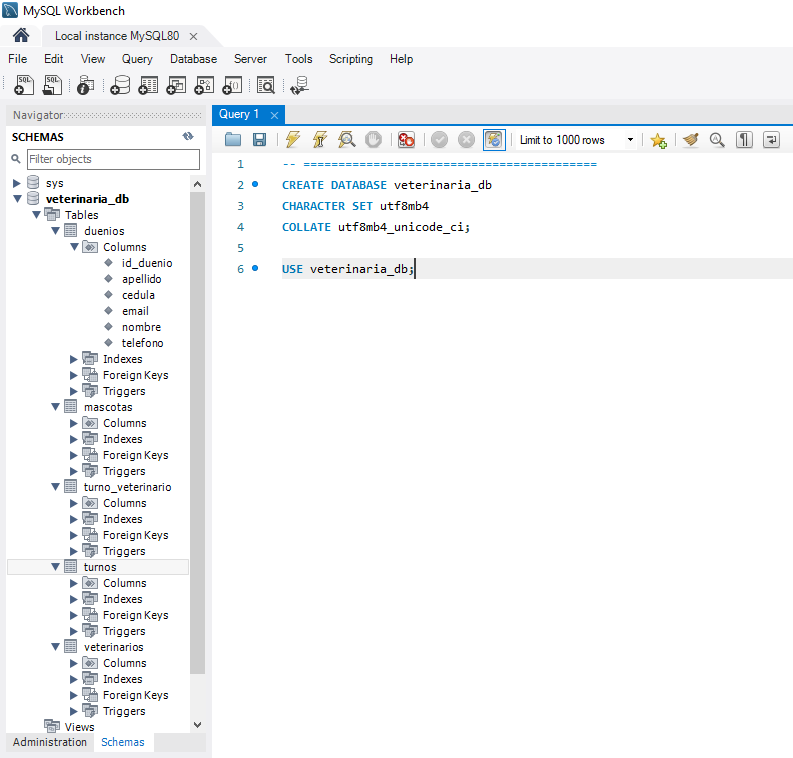
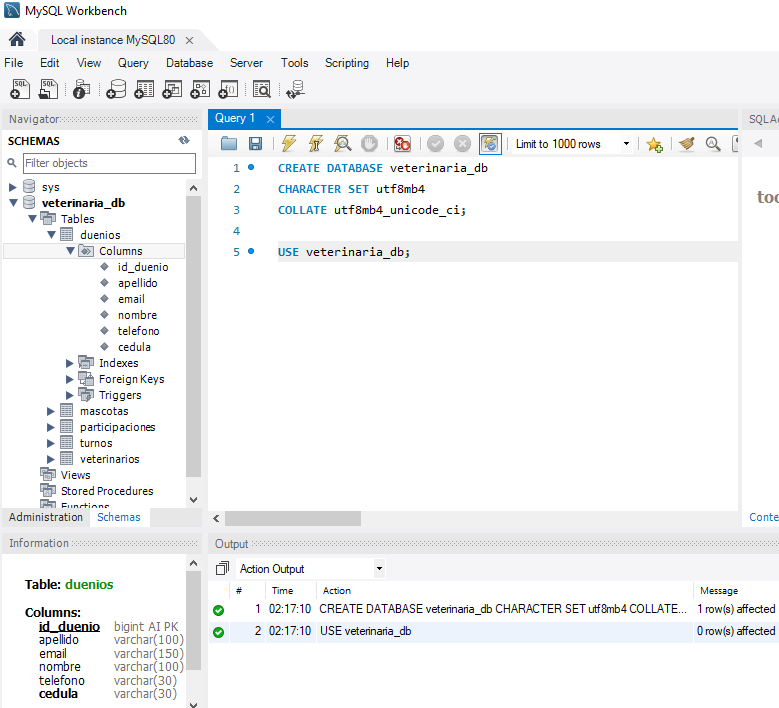
add entity participacion and enum rolVeterinario

diff --git a/src/main/java/com/veterinaria/entity/Turno.java b/src/main/java/com/veterinaria/entity/Turno.java
@@ -2,6 +2,7 @@ package com.veterinaria.entity;
 
 import com.fasterxml.jackson.annotation.JsonBackReference;
 import com.fasterxml.jackson.annotation.JsonManagedReference;
+import com.veterinaria.entity.enums.EstadoTurno;
 import jakarta.persistence.Column;
 import jakarta.persistence.Entity;
 import jakarta.persistence.EnumType;
@@ -11,13 +12,14 @@ import jakarta.persistence.GeneratedValue;
 import jakarta.persistence.GenerationType;
 import jakarta.persistence.Id;
 import jakarta.persistence.JoinColumn;
-import jakarta.persistence.JoinTable;
-import jakarta.persistence.ManyToMany;
 import jakarta.persistence.ManyToOne;
+import jakarta.persistence.OneToMany;
 import jakarta.persistence.Table;
 import lombok.AllArgsConstructor;
 import lombok.Data;
 import lombok.NoArgsConstructor;
+import lombok.Setter;
+import lombok.AccessLevel;
 
 import java.time.LocalDate;
 import java.time.LocalTime;
@@ -34,6 +36,7 @@ public class Turno {
     @Id
     @GeneratedValue(strategy = GenerationType.IDENTITY)
     @Column(name = "id_turno")
+    @Setter(AccessLevel.NONE)
     private Long id;
 
     @Column(nullable = false)
@@ -54,12 +57,7 @@ public class Turno {
     @JsonBackReference("mascota-turno")
     private Mascota mascota;
 
-    @ManyToMany
-    @JoinTable(
-            name = "turno_veterinario",
-            joinColumns = @JoinColumn(name = "id_turno"),
-            inverseJoinColumns = @JoinColumn(name = "id_veterinario")
-    )
-    @JsonManagedReference("turno-veterinario")
-    private Set<Veterinario> veterinarios = new HashSet<>();
+    @OneToMany(mappedBy = "turno")
+    @JsonManagedReference("turno-participacion")
+    private Set<Participacion> participaciones = new HashSet<>();
 }

diff --git a/src/main/java/com/veterinaria/entity/Veterinario.java b/src/main/java/com/veterinaria/entity/Veterinario.java
@@ -1,18 +1,19 @@
 package com.veterinaria.entity;
 
-import com.fasterxml.jackson.annotation.JsonBackReference;
+import com.fasterxml.jackson.annotation.JsonManagedReference;
 import jakarta.persistence.Column;
 import jakarta.persistence.Entity;
 import jakarta.persistence.GeneratedValue;
 import jakarta.persistence.GenerationType;
 import jakarta.persistence.Id;
-import jakarta.persistence.ManyToMany;
+import jakarta.persistence.OneToMany;
 import jakarta.persistence.Table;
 import lombok.EqualsAndHashCode;
 import lombok.Getter;
 import lombok.NoArgsConstructor;
 import lombok.Setter;
 import lombok.ToString;
+import lombok.AccessLevel;
 
 import java.util.HashSet;
 import java.util.Set;
@@ -29,6 +30,7 @@ public class Veterinario extends Persona {
     @Id
     @GeneratedValue(strategy = GenerationType.IDENTITY)
     @Column(name = "id_veterinario")
+    @Setter(AccessLevel.NONE)
     private Long id;
 
     @Column(nullable = false, unique = true, length = 50)
@@ -37,9 +39,9 @@ public class Veterinario extends Persona {
     @Column(length = 100)
     private String especialidad;
 
-    @ManyToMany(mappedBy = "veterinarios")
-    @JsonBackReference("turno-veterinario")
-    private Set<Turno> turnos = new HashSet<>();
+    @OneToMany(mappedBy = "veterinario")
+    @JsonManagedReference("veterinario-participacion")
+    private Set<Participacion> participaciones = new HashSet<>();
 
     public Veterinario(String nombre, String apellido, String telefono, String email, String matricula, String especialidad) {
         super(nombre, apellido, telefono, email);

diff --git a/src/main/java/com/veterinaria/entity/Participacion.java b/src/main/java/com/veterinaria/entity/Participacion.java
@@ -1,0 +1,46 @@
+package com.veterinaria.entity;
+
+import com.fasterxml.jackson.annotation.JsonBackReference;
+import com.veterinaria.entity.enums.RolVeterinario;
+import jakarta.persistence.Column;
+import jakarta.persistence.Entity;
+import jakarta.persistence.EnumType;
+import jakarta.persistence.Enumerated;
+import jakarta.persistence.GeneratedValue;
+import jakarta.persistence.GenerationType;
+import jakarta.persistence.Id;
+import jakarta.persistence.JoinColumn;
+import jakarta.persistence.ManyToOne;
+import jakarta.persistence.Table;
+import lombok.AllArgsConstructor;
+import lombok.Data;
+import lombok.NoArgsConstructor;
+import lombok.Setter;
+import lombok.AccessLevel;
+
+@Entity
+@Table(name = "participaciones")
+@Data
+@NoArgsConstructor
+@AllArgsConstructor
+public class Participacion {
+
+    @Id
+    @GeneratedValue(strategy = GenerationType.IDENTITY)
+    @Setter(AccessLevel.NONE)
+    private Long id;
+
+    @ManyToOne
+    @JoinColumn(name = "id_turno", nullable = false)
+    @JsonBackReference("turno-participacion")
+    private Turno turno;
+
+    @ManyToOne
+    @JoinColumn(name = "id_veterinario", nullable = false)
+    @JsonBackReference("veterinario-participacion")
+    private Veterinario veterinario;
+
+    @Enumerated(EnumType.STRING)
+    @Column(nullable = false, columnDefinition = "ENUM('PRINCIPAL','ASISTENTE')")
+    private RolVeterinario rol;
+}

diff --git a/src/main/java/com/veterinaria/entity/Mascota.java b/src/main/java/com/veterinaria/entity/Mascota.java
@@ -2,6 +2,7 @@ package com.veterinaria.entity;
 
 import com.fasterxml.jackson.annotation.JsonBackReference;
 import com.fasterxml.jackson.annotation.JsonManagedReference;
+import com.veterinaria.entity.enums.SexoMascota;
 import jakarta.persistence.CascadeType;
 import jakarta.persistence.Column;
 import jakarta.persistence.Entity;
@@ -18,6 +19,8 @@ import jakarta.persistence.Table;
 import lombok.AllArgsConstructor;
 import lombok.Data;
 import lombok.NoArgsConstructor;
+import lombok.Setter;
+import lombok.AccessLevel;
 
 import java.time.LocalDate;
 import java.util.ArrayList;
@@ -33,6 +36,7 @@ public class Mascota {
     @Id
     @GeneratedValue(strategy = GenerationType.IDENTITY)
     @Column(name = "id_mascota")
+    @Setter(AccessLevel.NONE)
     private Long id;
 
     @Column(nullable = false, length = 100)

diff --git a/src/main/java/com/veterinaria/entity/Duenio.java b/src/main/java/com/veterinaria/entity/Duenio.java
@@ -14,6 +14,7 @@ import lombok.Getter;
 import lombok.NoArgsConstructor;
 import lombok.Setter;
 import lombok.ToString;
+import lombok.AccessLevel;
 
 import java.util.ArrayList;
 import java.util.List;
@@ -30,6 +31,7 @@ public class Duenio extends Persona {
     @Id
     @GeneratedValue(strategy = GenerationType.IDENTITY)
     @Column(name = "id_duenio")
+    @Setter(AccessLevel.NONE)
     private Long id;
 
     @Column(nullable = false, unique = true, length = 30)

diff --git a/src/main/java/com/veterinaria/entity/enums/RolVeterinario.java b/src/main/java/com/veterinaria/entity/enums/RolVeterinario.java
@@ -1,0 +1,7 @@
+package com.veterinaria.entity.enums;
+
+public enum RolVeterinario {
+    PRINCIPAL,
+    ASISTENTE,
+    CONSULTOR
+}

diff --git a/src/main/java/com/veterinaria/entity/enums/EstadoTurno.java b/src/main/java/com/veterinaria/entity/enums/EstadoTurno.java
@@ -1,4 +1,4 @@
-package com.veterinaria.entity;
+package com.veterinaria.entity.enums;
 
 public enum EstadoTurno {
     PENDIENTE,

diff --git a/src/main/java/com/veterinaria/entity/enums/SexoMascota.java b/src/main/java/com/veterinaria/entity/enums/SexoMascota.java
@@ -1,4 +1,4 @@
-package com.veterinaria.entity;
+package com.veterinaria.entity.enums;
 
 public enum SexoMascota {
     Masculino,
